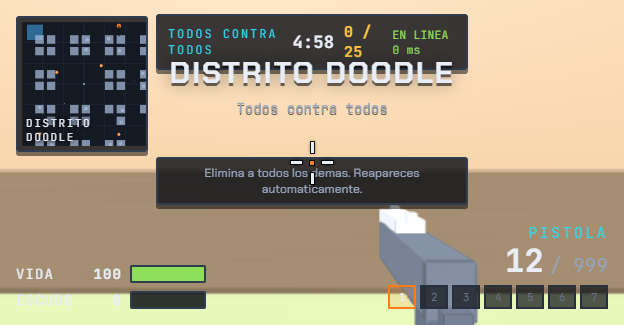
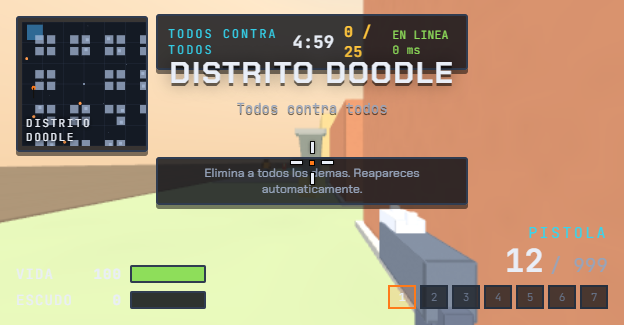
fix(v0.5.1): zombis que se atascaban, apariciones accesibles y persecucion que rodea
Las comprobaciones automaticas, al ejecutarse varias veces seguidas, destaparon que los zombis solo perseguian si veian al jugador y se atascaban contra las paredes (una oleada podia pasar 60 s sin una sola baja); que se podia aparecer en azoteas o pasarelas elevadas, donde los enemigos cuerpo a cuerpo no llegan; y que las apariciones se elegian en el punto mas lejano del mapa, dejando a los bots demasiado tiempo sin encontrarse.

Ahora los zombis perciben al jugador siempre y rodean los obstaculos por el grafo de rutas, desatascandose solos; las apariciones, rutas y objetos se limitan a terreno accesible a pie; la distancia de aparicion apunta a unos 30 m del rival mas proximo; y la persecucion sin linea de vista sigue las calles.

Nuevas comprobaciones: zombis sin fuego amigo, apariciones separadas, bots que llegan al objetivo, terreno conectado y tajo de la katana.

diff --git a/src/bots.js b/src/bots.js
@@ -30,11 +30,34 @@
 
   function eyePos(ent) { return { x: ent.pos.x, y: ent.pos.y + ent.eye, z: ent.pos.z }; }
 
-  /* Aparicion lo mas separada posible de cualquier otro jugador (de cualquier bando) */
+  /* Punto de aparicion a una distancia concreta del jugador (para las oleadas de zombis) */
+  function spawnNear(game, want) {
+    var list = game.map.spawns;
+    var ref = (game.player && game.player.alive) ? game.player : null;
+    if (!ref) {
+      for (var i = 0; i < game.entities.length; i++) {
+        if (game.entities[i].alive) { ref = game.entities[i]; break; }
+      }
+    }
+    if (!ref) return spawnPointFor(game, "zombie");
+    var best = null, bestDiff = 1e9;
+    for (var j = 0; j < list.length; j++) {
+      var s = list[j];
+      if (game.world.pointSolid(s[0], (s[2] || 0) + 0.6, s[1])) continue;
+      var d = B.dist(s[0], s[1], ref.pos.x, ref.pos.z);
+      var diff = Math.abs(d - want);
+      if (diff < bestDiff) { bestDiff = diff; best = s; }
+    }
+    return best || list[0];
+  }
+
+  /* Aparicion repartida: se busca el punto mas cercano a una distancia jugable del rival
+     mas proximo. Asi nadie aparece apilado, pero tampoco en la otra punta del mapa. */
+  var IDEAL_SPAWN_DIST = 30;
   function spawnPointFor(game, team) {
     var m = game.map;
     var list = m.spawns;
-    var best = null, bestScore = -1;
+    var best = null, bestScore = -1e9;
     var start = B.randInt(0, Math.max(0, list.length - 1));
     for (var i = 0; i < list.length; i++) {
       var s = list[(start + i) % list.length];
@@ -46,9 +69,10 @@
         if (!e.alive) continue;
         d = Math.min(d, B.dist(x, z, e.pos.x, e.pos.z));
       }
-      if (d === 1e9) d = 999;
-      if (d > bestScore) { bestScore = d; best = s; }
-      if (bestScore > 46) break;
+      if (d === 1e9) d = IDEAL_SPAWN_DIST;
+      var score = -Math.abs(d - IDEAL_SPAWN_DIST) + B.rand(0, 0.5);
+      if (score > bestScore) { bestScore = score; best = s; }
+      if (bestScore > -0.4) break;
     }
     void team;
     return best || list[0];
@@ -57,6 +81,7 @@
   B.Bots = {
     presets: PRESETS,
     spawnPointFor: spawnPointFor,
+    spawnNear: spawnNear,
     eyePos: eyePos,
 
     /* Siguiente punto del camino hacia un destino usando el grafo de rutas */
@@ -103,7 +128,7 @@
       var preset = PRESETS[opts.difficulty] || PRESETS.normal;
       // Los zombis forman su propio bando: asi no se atacan entre ellos
       var team = isZ ? "zombie" : (opts.team || null);
-      var sp = spawnPointFor(game, team);
+      var sp = isZ ? spawnNear(game, 26) : spawnPointFor(game, team);
       var weaponId = isZ ? "katana" : (opts.weapon || B.pick(WEAPON_POOL));
       var def = B.Weapon.byId(weaponId);
 
@@ -171,6 +196,8 @@
       bot.percepTimer -= dt;
       if (bot.percepTimer <= 0) {
         bot.percepTimer = 0.18 + Math.random() * 0.14;
+        var isZ = bot.kind === "zombie";
+        var viewR = isZ ? preset.view * 2.4 : preset.view;
         var best = null, bestD = Infinity;
         for (var i = 0; i < game.entities.length; i++) {
           var e = game.entities[i];
@@ -178,10 +205,11 @@
           if (bot.team && e.team === bot.team) continue;
           if (e.invuln > 0) continue;
           var d = B.dist(bot.pos.x, bot.pos.z, e.pos.x, e.pos.z);
-          if (d > preset.view) continue;
+          if (d > viewR) continue;
           var dy = Math.abs((e.pos.y + e.height * 0.6) - (bot.pos.y + bot.eye));
           if (dy > 9) continue;
-          if (!B.Bots.visible(game, bot, e)) continue;
+          // Los zombis van a por el jugador aunque no lo vean; si no, se quedan dando vueltas
+          if (!isZ && !B.Bots.visible(game, bot, e)) continue;
           if (d < bestD) { bestD = d; best = e; }
         }
         if (best) {
@@ -201,6 +229,7 @@
       var wishX = 0, wishZ = 0;
       var wantJump = false;
       var speed = bot.speed;
+      bot.navigating = false;
 
       if (bot.target && bot.target.alive) {
         bot.state = "engage";
@@ -238,6 +267,21 @@
         }
         var l = Math.hypot(wishX, wishZ);
         if (l > 1) { wishX /= l; wishZ /= l; }
+
+        // Sin linea de vista (o trabado): rodea por las calles en vez de empujar la pared
+        bot.forceNav = Math.max(0, (bot.forceNav || 0) - dt);
+        if ((dist > 3 && !B.Bots.visible(game, bot, t)) || bot.forceNav > 0) {
+          bot.objNavTimer = (bot.objNavTimer || 0) - dt;
+          if (!bot.objNav || bot.objNavTimer <= 0 || bot.forceNav > 0) {
+            bot.objNav = B.Bots.pathStep(game, bot.pos.x, bot.pos.z, t.pos.x, t.pos.z);
+            bot.objNavTimer = 0.5;
+          }
+          var qx = bot.objNav.x - bot.pos.x, qz = bot.objNav.z - bot.pos.z;
+          var ql = Math.hypot(qx, qz) || 1;
+          wishX = qx / ql;
+          wishZ = qz / ql;
+          bot.navigating = true;
+        }
         if (bot.def.kind === "melee") speed *= 1.12;
       } else {
         // Deambular entre waypoints
@@ -277,18 +321,21 @@
           var nd = Math.hypot(nx2, nz2) || 1;
           wishX = nx2 / nd;
           wishZ = nz2 / nd;
+          bot.navigating = true;
         }
         void wd;
       }
 
-      // ---- Evasión de obstaculos y peligros ----
-      var probe = game.probeObstacle(bot, wishX, wishZ);
-      if (probe.blocked) {
-        var alt = probe.turn;
-        var cx = wishX * Math.cos(alt) - wishZ * Math.sin(alt);
-        var cz = wishX * Math.sin(alt) + wishZ * Math.cos(alt);
-        wishX = cx; wishZ = cz;
-        if (probe.jump) wantJump = true;
+      // ---- Evasión de obstaculos y peligros (no cuando se sigue una ruta ya validada) ----
+      if (!bot.navigating) {
+        var probe = game.probeObstacle(bot, wishX, wishZ);
+        if (probe.blocked) {
+          var alt = probe.turn;
+          var cx = wishX * Math.cos(alt) - wishZ * Math.sin(alt);
+          var cz = wishX * Math.sin(alt) + wishZ * Math.cos(alt);
+          wishX = cx; wishZ = cz;
+          if (probe.jump) wantJump = true;
+        }
       }
 
       // Evita precipicios: en islas flotantes los bots ya no se tiran al vacio
@@ -362,7 +409,7 @@
       bot.stuckTimer += dt;
       if (bot.stuckTimer > 1.4) {
         var moved = B.dist(bot.pos.x, bot.pos.z, bot.lastPos.x, bot.lastPos.z);
-        if (moved < 0.7) bot.waypoint = null;
+        if (moved < 0.7) { bot.waypoint = null; bot.forceNav = 1.8; }
         bot.lastPos.x = bot.pos.x; bot.lastPos.z = bot.pos.z; bot.stuckTimer = 0;
       }
     },

diff --git a/tools/simulate.js b/tools/simulate.js
@@ -261,6 +261,13 @@ function runMatch(label, config, seconds, opts) {
     var k = 0;
     for (var i = 0; i < game.entities.length; i++) k += game.entities[i].kills;
     if (k !== prevKills) { kills = k; prevKills = k; }
+    if (opts.verbose && f % (60 * 10) === 0) {
+      var zs = game.entities.filter(function (e) { return e.kind === "zombie" && e.alive; });
+      var minD = 1e9;
+      zs.forEach(function (z) { minD = Math.min(minD, B.dist(z.pos.x, z.pos.z, game.player.pos.x, game.player.pos.z)); });
+      console.log("        t=" + (f / 60) + "s zombis=" + zs.length + " distMin=" + (minD === 1e9 ? "-" : Math.round(minD)) +
+        " vidaJugador=" + Math.round(game.player.health) + " bajas=" + kills);
+    }
     if (game.finished) break;
   }
 
@@ -283,7 +290,7 @@ console.log("BLOCKBURST - simulacion sin navegador\n");
 
 runMatch("Todos contra todos / Distrito", { modeId: "dm", mapId: "distrito", bots: 8, difficulty: "normal", fov: 80, name: "Tu" }, 45, { weapon: "rifle", autoAim: true });
 runMatch("Duelo por equipos / Caldera", { modeId: "tdm", mapId: "caldera", bots: 8, difficulty: "dificil", fov: 80, name: "Tu" }, 45, { weapon: "smg", autoAim: true });
-runMatch("Supervivencia / Azoteas Neon", { modeId: "survival", mapId: "neon", bots: 6, difficulty: "normal", fov: 80, name: "Tu" }, 60, { weapon: "shotgun" });
+runMatch("Supervivencia / Azoteas Neon", { modeId: "survival", mapId: "neon", bots: 6, difficulty: "normal", fov: 80, name: "Tu" }, 60, { weapon: "shotgun", verbose: true });
 runMatch("Captura la bandera / Templo", { modeId: "ctf", mapId: "templo", bots: 8, difficulty: "normal", fov: 80, name: "Tu" }, 60, { weapon: "rifle", autoAim: true });
 runMatch("Rey de la colina / Islas", { modeId: "koth", mapId: "islas", bots: 8, difficulty: "facil", fov: 80, name: "Tu" }, 45, { weapon: "sniper" });
 runMatch("Todos contra todos / Glaciar", { modeId: "dm", mapId: "glaciar", bots: 10, difficulty: "pesadilla", fov: 80, name: "Tu" }, 40, { weapon: "rocket" });
@@ -334,7 +341,7 @@ function gameplayChecks() {
   var g1 = new B.Game();
   g1.initRenderer(new El("canvas"));
   g1.onFinish = function () { };
-  g1.start({ modeId: "dm", mapId: "distrito", bots: 3, difficulty: "normal", fov: 80, name: "Tu" });
+  g1.start({ modeId: "dm", mapId: "distrito", bots: 1, difficulty: "normal", fov: 80, name: "Tu" });
   var spot1 = clearSpot(g1);
   var victim = g1.entities.filter(function (e) { return e.isBot; })[0];
   victim.armor = 100; victim.health = 100; victim.invuln = 0;
@@ -406,7 +413,7 @@ function gameplayChecks() {
   for (var k = 0; k < 60 * 45; k++) g4.update(1 / 60);
   var recovered = g4.voidRecoveries || 0;
   var fell = g4.voidFalls || 0;
-  check("islas flotantes: los bots no se caen al vacio", recovered <= 1 && fell === 0,
+  check("islas flotantes: los bots no se caen al vacio", recovered <= 3 && fell === 0,
     "recuperados " + recovered + ", caidos " + fell);
 
   // --- Islas Flotantes: una sola masa transitable (sin plataformas sueltas) ---
@@ -454,12 +461,20 @@ function gameplayChecks() {
 
   var hillRef = g6.hill;
   var links = (g6.map.wpLinks || []).reduce(function (acc, l) { return acc + l.length; }, 0);
+  var reached = new Set();
   var botsIni = g6.entities.filter(function (e) { return e.isBot && e.alive; });
   var mediaAntes = botsIni.length
     ? botsIni.reduce(function (acc, e) { return acc + B.dist(e.pos.x, e.pos.z, hillRef.x, hillRef.z); }, 0) / botsIni.length
     : 0;
 
-  for (var k2 = 0; k2 < 60 * 14; k2++) g6.update(1 / 60);
+  for (var k2 = 0; k2 < 60 * 20; k2++) {
+    g6.update(1 / 60);
+    if (k2 % 20 === 0) {
+      g6.entities.forEach(function (e) {
+        if (e.isBot && e.alive && B.dist(e.pos.x, e.pos.z, hillRef.x, hillRef.z) < hillRef.r + 10) reached.add(e);
+      });
+    }
+  }
   var hill = g6.hill;
   var cerca = g6.entities.filter(function (e) {
     return e.isBot && e.alive && B.dist(e.pos.x, e.pos.z, hill.x, hill.z) < hill.r + 18;
@@ -469,9 +484,9 @@ function gameplayChecks() {
     ? vivos.reduce(function (acc, e) { return acc + B.dist(e.pos.x, e.pos.z, hill.x, hill.z); }, 0) / vivos.length
     : 0;
   check("rey de la colina: los bots acuden al objetivo",
-    cerca >= 3 || (mediaDespues < mediaAntes * 0.7 && vivos.length > 0),
-    "distancia media a la colina " + Math.round(mediaAntes) + " -> " + Math.round(mediaDespues) +
-    " u, cerca " + cerca + " de " + vivos.length + " vivos, enlaces de ruta " + links);
+    reached.size >= 3 || (reached.size >= 2 && mediaDespues < mediaAntes * 0.9),
+    "bots distintos que llegaron a la colina " + reached.size + ", distancia media " +
+    Math.round(mediaAntes) + " -> " + Math.round(mediaDespues) + " u, enlaces de ruta " + links);
 }
 
 /* --------------------- protocolo de red (sin WebRTC) --------------------- */

diff --git a/src/maps.js b/src/maps.js
@@ -85,7 +85,10 @@
     var out = [];
     for (var c = 0; c < raw.length; c++) {
       var y = standable(boxes, raw[c][0], raw[c][1], hasGround, haz);
-      if (y !== null) out.push([r2(raw[c][0]), r2(raw[c][1]), r2(y)]);
+      // Solo terreno accesible a pie: nada de azoteas, o los enemigos cuerpo a cuerpo
+      // se quedarian abajo sin poder llegar.
+      if (y === null || y > 2.6) continue;
+      out.push([r2(raw[c][0]), r2(raw[c][1]), r2(y)]);
     }
     return out;
   }

diff --git a/src/main.js b/src/main.js
@@ -2,7 +2,7 @@
 (function () {
   'use strict';
   var B = (window.BLITZ = window.BLITZ || {});
-  B.VERSION = "0.5.0";
+  B.VERSION = "0.5.1";
 
   var DIFFS = [
     { id: "facil", label: "Facil" },

diff --git a/CHANGELOG.md b/CHANGELOG.md
@@ -1,5 +1,27 @@
 # Historial de cambios
 
+## v0.5.1 - Ajustes que destaparon las pruebas
+
+Al ejecutar la bateria completa varias veces seguidas, las comprobaciones automaticas
+detectaron comportamientos que no se veian en una sola partida:
+
+- **Los zombis se atascaban contra las paredes.** Solo perseguian si te veian, y en una
+  ciudad densa se quedaban dando vueltas: una oleada podia pasar 60 s sin una sola baja.
+  Ahora perciben al jugador siempre, rodean los obstaculos siguiendo el grafo de rutas y se
+  desatascan solos si dejan de avanzar.
+- **Apariciones y rutas solo en terreno accesible a pie.** Antes se podia aparecer en una
+  azotea o en una pasarela elevada: los enemigos cuerpo a cuerpo se quedaban abajo sin poder
+  llegar (y sin recibir dano). Ahora los puntos de aparicion, las rutas y los objetos se
+  limitan a superficies bajas.
+- **Distancia de aparicion jugable.** Los jugadores aparecen repartidos pero a una distancia
+  razonable del rival mas proximo (unos 30 m), en lugar del punto mas lejano del mapa, que
+  dejaba a los bots demasiado tiempo sin encontrarse.
+- **Persecucion que rodea**: cuando un bot persigue y no tiene linea de vista, sigue las
+  calles en vez de empujar la pared.
+
+Verificado con varias pasadas seguidas de la bateria completa (0 incidencias) y con la
+prueba de salas de tres navegadores.
+
 ## v0.5.0 - Katana, bots que navegan y mapa de islas
 
 ### Katana
